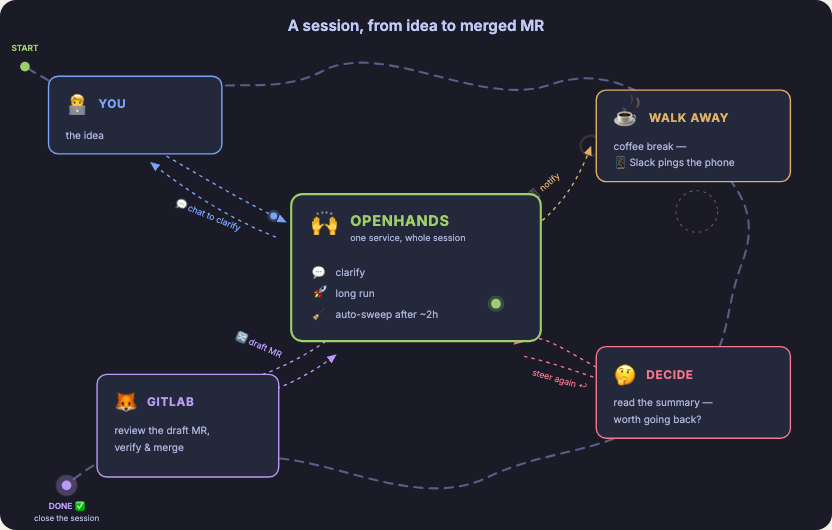
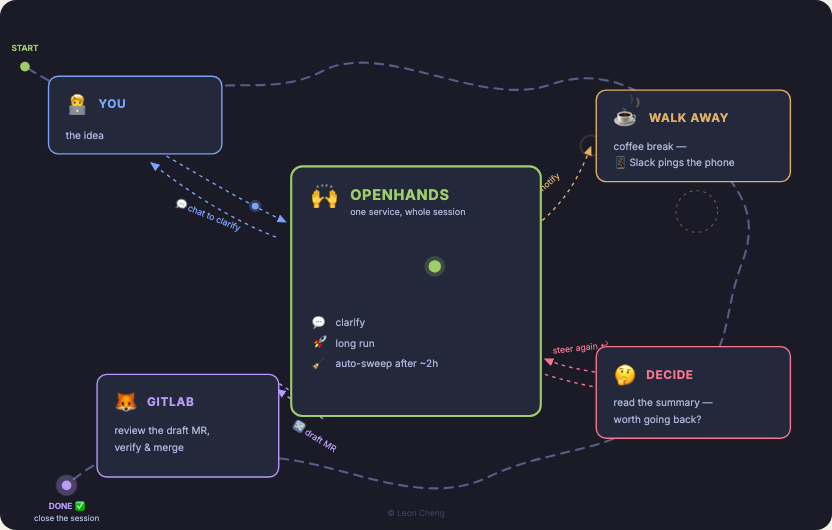
blog(storyboard): square hub with centered infinity indicator, credit line
- Hub card expanded to a 360x360 square; the server-in-operation green dot
  (slightly larger, r=9) traces its figure-eight horizontally centered
  above the clarify/long-run/auto-sweep beats
- Steer-again and draft-MR loop spokes re-attached to the square hub's
  edges; labels repositioned clear of the arrows
- Remove the SVG title text (accessible label unchanged)
- Add a translucent '© Leon Cheng' marker at the middle bottom
- Refresh review screenshots

diff --git a/src/features/blog/components/SessionStoryboard.tsx b/src/features/blog/components/SessionStoryboard.tsx
@@ -41,8 +41,8 @@ const ORBIT =
 const CHAT_OUT = 'C 300 260, 350 290, 412 320'
 const CHAT_BACK = 'C 330 315, 270 275, 218 235'
 const CHAT_OUT_AGAIN = 'C 300 262, 352 292, 412 320'
-const STEER_OUT = 'C 920 545, 810 505, 742 496'
-const STEER_BACK = 'C 800 520, 900 555, 990 565'
+const STEER_OUT = 'C 920 545, 850 532, 786 520'
+const STEER_BACK = 'C 850 545, 920 555, 990 565'
 const TRAVELER_PATH =
   'M 36 96 C 90 130, 140 150, 195 165 ' +
   // clarify chat loop ×3
@@ -65,20 +65,21 @@ const CHAT_TO_HUB = 'M 240 225 C 300 260, 350 290, 412 320'
 const CHAT_TO_YOU = 'M 398 342 C 330 315, 270 275, 218 235'
 const NOTIFY = 'M 782 318 C 820 285, 838 248, 852 212'
 // Steer-again is a loop like the chat spoke: out to the hub and back.
-const STEER = 'M 880 540 C 810 505, 775 470, 742 496'
-const STEER_RETURN = 'M 756 514 C 802 524, 858 545, 902 560'
+// Attached to the square hub's right edge.
+const STEER = 'M 880 540 C 838 534, 810 528, 786 518'
+const STEER_RETURN = 'M 786 540 C 812 548, 842 556, 880 562'
 // GitLab exchange: the hub pushes the draft MR down; the merge comes back up.
-const DRAFT_MR = 'M 470 492 C 430 520, 395 535, 348 552'
-const DRAFT_MR_RETURN = 'M 368 572 C 410 558, 448 540, 484 512'
+const DRAFT_MR = 'M 466 604 C 442 590, 420 576, 400 562'
+const DRAFT_MR_RETURN = 'M 384 542 C 408 556, 432 572, 452 588'
 
 const NODE_TEXT = '#a9b1d6'
 
 // The "server in operation" indicator inside the hub: a green dot tracing a
-// sideways figure-eight (lemniscate) in the empty right half of the card.
-// Two mirrored bezier loops crossing at the center, closed so the SMIL
-// animation cycles seamlessly.
-const HUB_CX = 690
-const HUB_CY = 422
+// sideways figure-eight (lemniscate), horizontally centered in the square
+// card, above the beat list. Two mirrored bezier loops crossing at the
+// center, closed so the SMIL animation cycles seamlessly.
+const HUB_CX = 600
+const HUB_CY = 368
 const INFINITY_PATH =
   `M ${HUB_CX} ${HUB_CY} ` +
   `C ${HUB_CX + 20} ${HUB_CY - 22}, ${HUB_CX + 45} ${HUB_CY - 22}, ${HUB_CX + 45} ${HUB_CY} ` +
@@ -115,11 +116,6 @@ export default function SessionStoryboard({ ariaLabel }: SessionStoryboardProps)
             <path d="M 0 0 L 7 3 L 0 6 Z" fill="context-stroke" />
           </marker>
         </defs>
-
-        {/* Title */}
-        <text x={600} y={44} textAnchor="middle" fontSize={22} fontWeight={600} fill="#c0caf5">
-          A session, from idea to merged MR
-        </text>
 
         {/* The winding orbit (marching dashes) */}
         <motion.path
@@ -236,12 +232,12 @@ export default function SessionStoryboard({ ariaLabel }: SessionStoryboardProps)
             markerEnd="url(#spoke-arrow)"
           />
           <text
-            x={806}
-            y={552}
+            x={838}
+            y={506}
             textAnchor="middle"
             fontSize={12.5}
             fill="#f7768e"
-            transform="rotate(16 806 552)"
+            transform="rotate(-6 838 506)"
           >
             steer again ↩
           </text>
@@ -265,12 +261,12 @@ export default function SessionStoryboard({ ariaLabel }: SessionStoryboardProps)
             markerEnd="url(#spoke-arrow)"
           />
           <text
-            x={372}
-            y={502}
+            x={452}
+            y={634}
             textAnchor="middle"
             fontSize={12.5}
             fill="#bb9af7"
-            transform="rotate(24 372 502)"
+            transform="rotate(32 452 634)"
           >
             🔀 draft MR
           </text>
@@ -347,30 +343,48 @@ export default function SessionStoryboard({ ariaLabel }: SessionStoryboardProps)
 
         {/* OPENHANDS hub (center) */}
         <motion.g variants={cardVariants}>
-          <rect x={420} y={280} width={360} height={212} rx={16} fill="#24283b" stroke="#9ece6a" strokeWidth={3} />
-          <text x={450} y={334} fontSize={36}>
+          <rect x={420} y={240} width={360} height={360} rx={16} fill="#24283b" stroke="#9ece6a" strokeWidth={3} />
+          <text x={450} y={296} fontSize={36}>
             🙌
           </text>
-          <text x={505} y={326} fontSize={21} fontWeight={700} fill="#9ece6a" letterSpacing={1}>
+          <text x={505} y={288} fontSize={21} fontWeight={700} fill="#9ece6a" letterSpacing={1}>
             OPENHANDS
           </text>
-          <text x={505} y={348} fontSize={13} fill={NODE_TEXT}>
+          <text x={505} y={310} fontSize={13} fill={NODE_TEXT}>
             one service, whole session
           </text>
-          <text x={450} y={398} fontSize={15}>
+          {/* Server-in-operation indicator: green dot tracing an infinity
+              pattern, centered above the beat list. Statically centered
+              under reduced motion. */}
+          {reducedMotion ? (
+            <>
+              <circle cx={HUB_CX} cy={HUB_CY} r={15} fill="#9ece6a" opacity={0.2} />
+              <circle cx={HUB_CX} cy={HUB_CY} r={9} fill="#9ece6a" />
+            </>
+          ) : (
+            <>
+              <circle r={15} fill="#9ece6a" opacity={0.2}>
+                <animateMotion dur="4.5s" repeatCount="indefinite" rotate="0" calcMode="paced" path={INFINITY_PATH} />
+              </circle>
+              <circle r={9} fill="#9ece6a">
+                <animateMotion dur="4.5s" repeatCount="indefinite" rotate="0" calcMode="paced" path={INFINITY_PATH} />
+              </circle>
+            </>
+          )}
+          <text x={450} y={470} fontSize={15}>
             💬
           </text>
-          <text x={484} y={398} fontSize={14.5} fill={NODE_TEXT}>
+          <text x={484} y={470} fontSize={14.5} fill={NODE_TEXT}>
             clarify
           </text>
           {reducedMotion ? (
-            <text x={450} y={428} fontSize={15}>
+            <text x={450} y={500} fontSize={15}>
               🚀
             </text>
           ) : (
             <motion.text
               x={450}
-              y={428}
+              y={500}
               fontSize={15}
               animate={{ y: [0, -4, 0], x: [0, 3, 0] }}
               transition={{ duration: 2.6, repeat: Infinity, ease: 'easeInOut' }}
@@ -378,32 +392,15 @@ export default function SessionStoryboard({ ariaLabel }: SessionStoryboardProps)
               🚀
             </motion.text>
           )}
-          <text x={484} y={428} fontSize={14.5} fill={NODE_TEXT}>
+          <text x={484} y={500} fontSize={14.5} fill={NODE_TEXT}>
             long run
           </text>
-          <text x={450} y={458} fontSize={15}>
+          <text x={450} y={530} fontSize={15}>
             🧹
           </text>
-          <text x={484} y={458} fontSize={14.5} fill={NODE_TEXT}>
+          <text x={484} y={530} fontSize={14.5} fill={NODE_TEXT}>
             auto-sweep after ~2h
           </text>
-          {/* Server-in-operation indicator: green dot tracing an infinity
-              pattern. Statically centered under reduced motion. */}
-          {reducedMotion ? (
-            <>
-              <circle cx={HUB_CX} cy={HUB_CY} r={12} fill="#9ece6a" opacity={0.2} />
-              <circle cx={HUB_CX} cy={HUB_CY} r={7} fill="#9ece6a" />
-            </>
-          ) : (
-            <>
-              <circle r={12} fill="#9ece6a" opacity={0.2}>
-                <animateMotion dur="4.5s" repeatCount="indefinite" rotate="0" calcMode="paced" path={INFINITY_PATH} />
-              </circle>
-              <circle r={7} fill="#9ece6a">
-                <animateMotion dur="4.5s" repeatCount="indefinite" rotate="0" calcMode="paced" path={INFINITY_PATH} />
-              </circle>
-            </>
-          )}
         </motion.g>
 
         {/* DECIDE (bottom-right) */}
@@ -439,6 +436,18 @@ export default function SessionStoryboard({ ariaLabel }: SessionStoryboardProps)
             verify &amp; merge
           </text>
         </motion.g>
+
+        {/* Translucent attribution */}
+        <text
+          x={600}
+          y={744}
+          textAnchor="middle"
+          fontSize={12}
+          fill="#565f89"
+          opacity={0.55}
+        >
+          © Leon Cheng
+        </text>
 
         {/* Traveler acting out the day. SMIL follows the composite path
             natively; drawn last so the dot passes in front of the node
